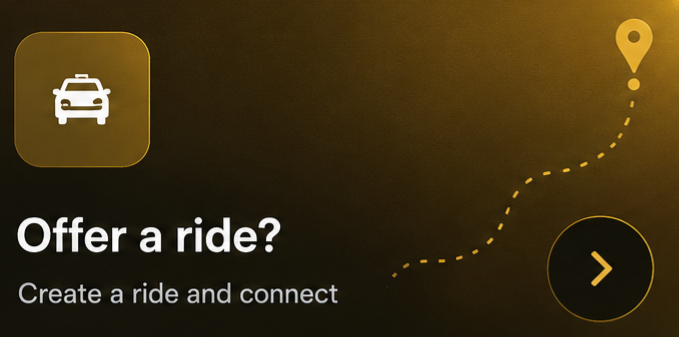
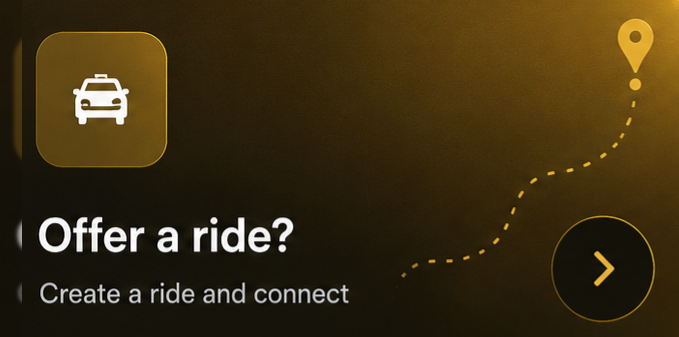
Align offer ride card artwork

diff --git a/src/app/(app)/home/page.tsx b/src/app/(app)/home/page.tsx
@@ -1413,7 +1413,7 @@ function HomeBottomActionCards() {
         <Link
           href="/create"
           aria-label="Create a ride"
-          className="group relative block aspect-[711/377] min-h-[124px] overflow-hidden rounded-[14px] border border-[var(--rp-primary)]/70 bg-[#1c1406] text-left shadow-[0_16px_36px_rgba(242,193,91,0.14)] transition hover:-translate-y-0.5 hover:border-[var(--rp-primary)] hover:shadow-[0_20px_46px_rgba(242,193,91,0.2)] focus-visible:outline focus-visible:outline-[3px] focus-visible:outline-offset-4 focus-visible:outline-[var(--rp-primary)]"
+          className="group relative block aspect-[679/337] min-h-[124px] overflow-hidden rounded-[14px] border border-[var(--rp-primary)]/70 bg-[#1c1406] text-left shadow-[0_16px_36px_rgba(242,193,91,0.14)] transition hover:-translate-y-0.5 hover:border-[var(--rp-primary)] hover:shadow-[0_20px_46px_rgba(242,193,91,0.2)] focus-visible:outline focus-visible:outline-[3px] focus-visible:outline-offset-4 focus-visible:outline-[var(--rp-primary)]"
         >
           <Image
             src="/images/home/offer-ride-card.png"
